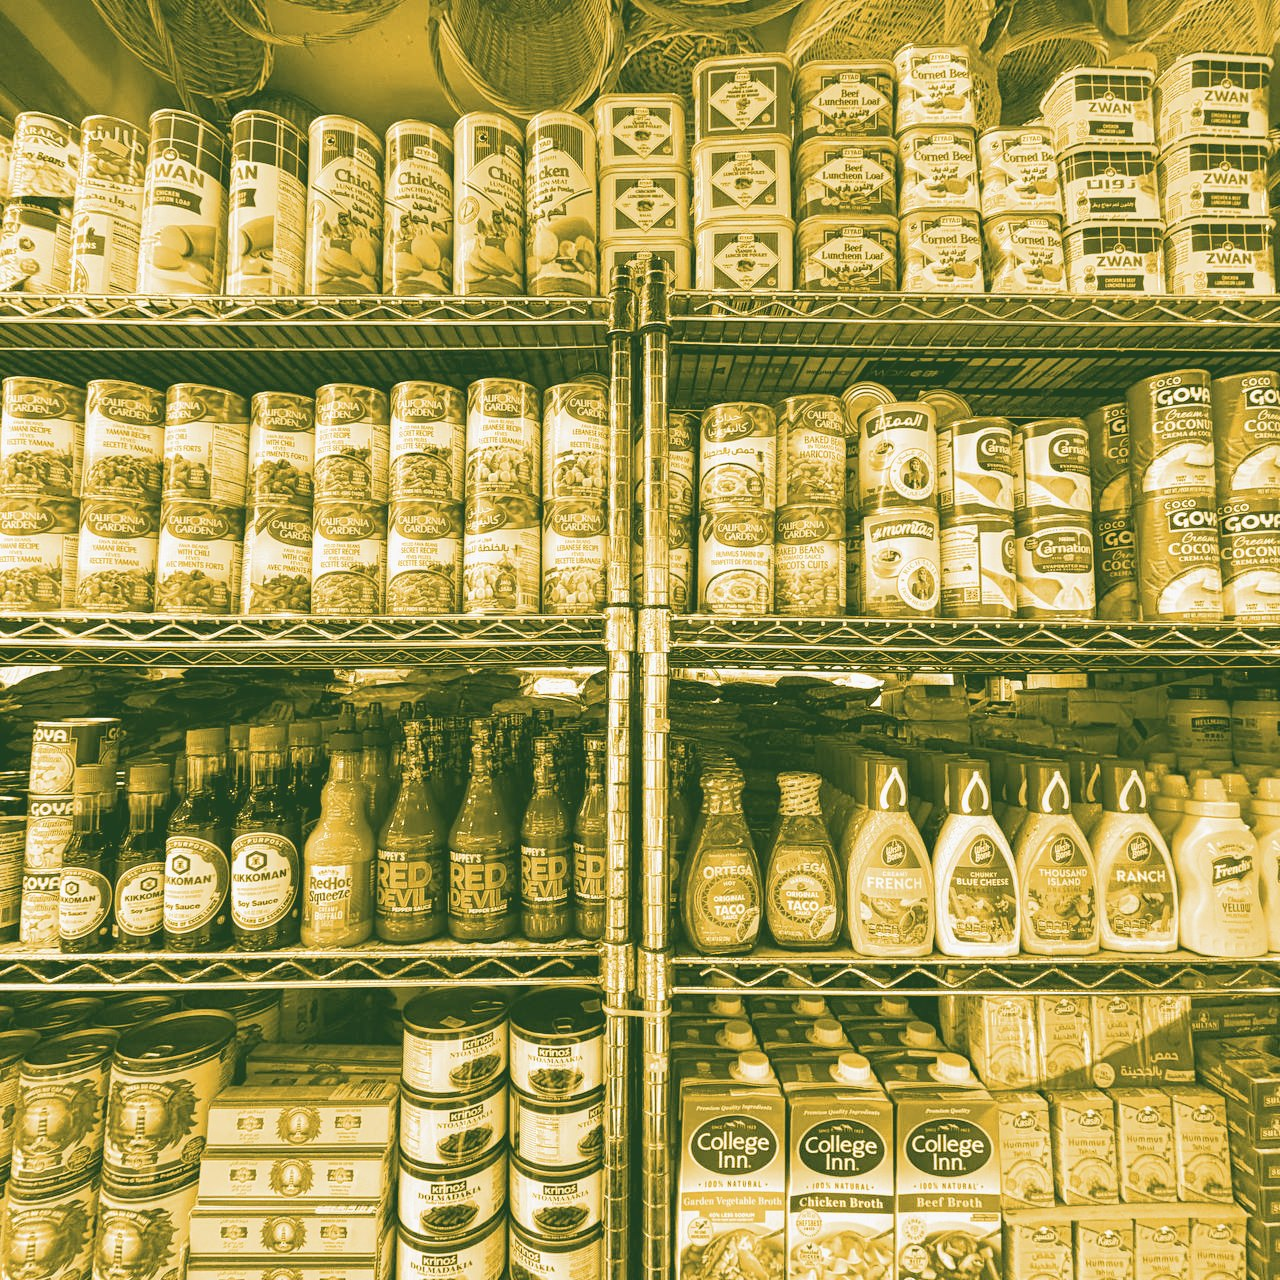
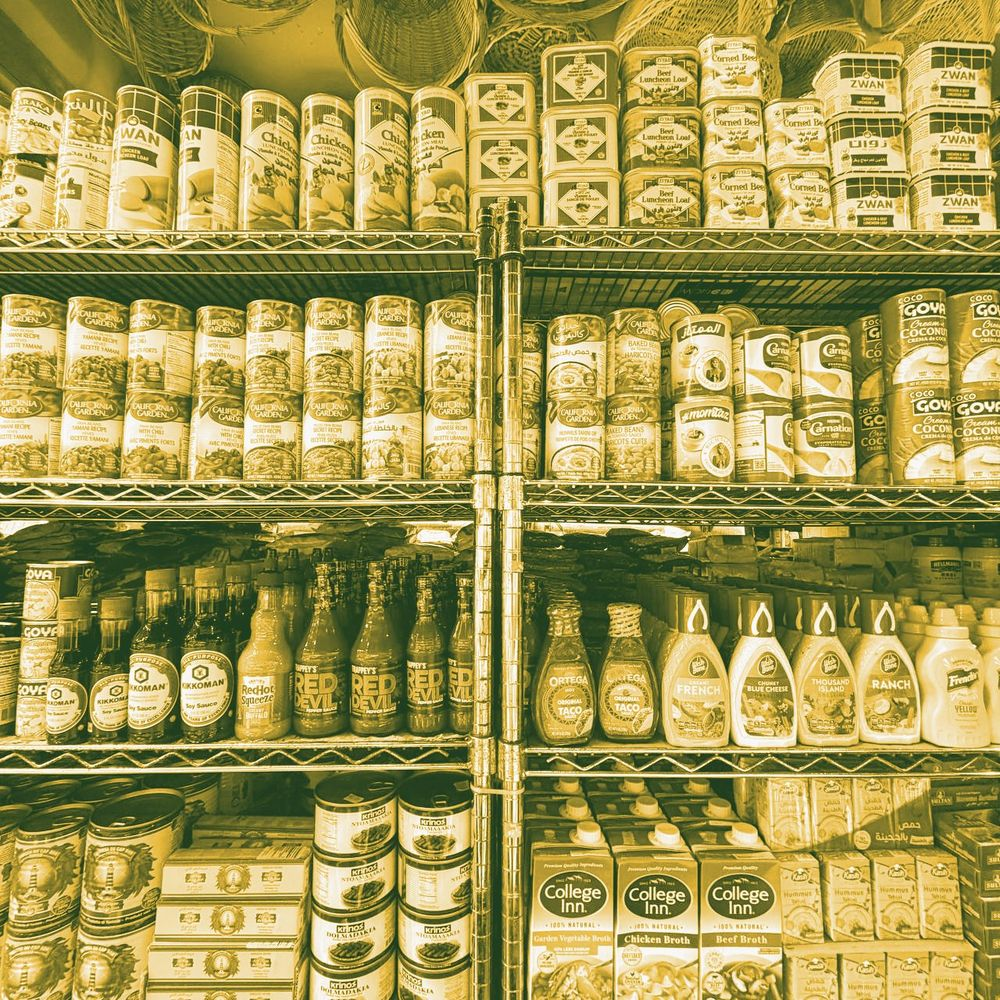
Round-1 fixes: strip false Stripe/pay-on-pickup copy (en/ar), replace [MAP] placeholder with real Google Maps embed, populate why.sub, downscale 17 photos to 1000px for /gallery weight, add frame-src CSP for map iframe

diff --git a/components/hours/LocationMap.tsx b/components/hours/LocationMap.tsx
@@ -30,16 +30,14 @@ export function LocationMap() {
         </address>
       </div>
 
-      <div
-        role="img"
-        aria-label={`${t('reach.address1')}, ${t('reach.address2')}`}
-        className="flex min-h-[260px] items-center justify-center rounded-2xl border border-line bg-surface2 p-6 text-center"
-      >
-        <div>
-          <p className="font-medium text-text">{t('reach.address1')}</p>
-          <p className="text-textSoft">{t('reach.address2')}</p>
-          <p className="mt-2 text-sm text-textSoft">{t('hours.map')}</p>
-        </div>
+      <div className="overflow-hidden rounded-2xl border border-line bg-surface2">
+        <iframe
+          title={t('reach.address1') + ', ' + t('reach.address2')}
+          src="https://www.google.com/maps?q=302+86th+St,+Brooklyn,+NY+11209&output=embed"
+          loading="lazy"
+          referrerPolicy="no-referrer-when-downgrade"
+          className="h-[300px] w-full border-0"
+        />
       </div>
     </div>
   );

diff --git a/public/llm.md b/public/llm.md
@@ -25,7 +25,7 @@ Fresh produce, premium halal meats cut to order, warm pitas baked through the
 night, Middle Eastern pantry staples, dairy, frozen foods, and beverages.
 The online shop (Model A) lets customers build a list and order online for
 pickup; payment is collected in store on pickup. (No online card charge in
-this build; Stripe is wired in test mode and ready for live keys.)
+this build.)
 
 ## Pages / routes
 - `/` — Home: hero, shop-by-category, why-us, visit banner
@@ -66,5 +66,3 @@ this build; Stripe is wired in test mode and ready for live keys.)
 ## Notes / disclaimers
 - This is a design mockup. Legal copy should be reviewed by a
   New-York-licensed attorney before any real launch.
-- Live Stripe payments require a US Stripe account the Egyptian developer
-  cannot open; test-mode keys work from anywhere.
